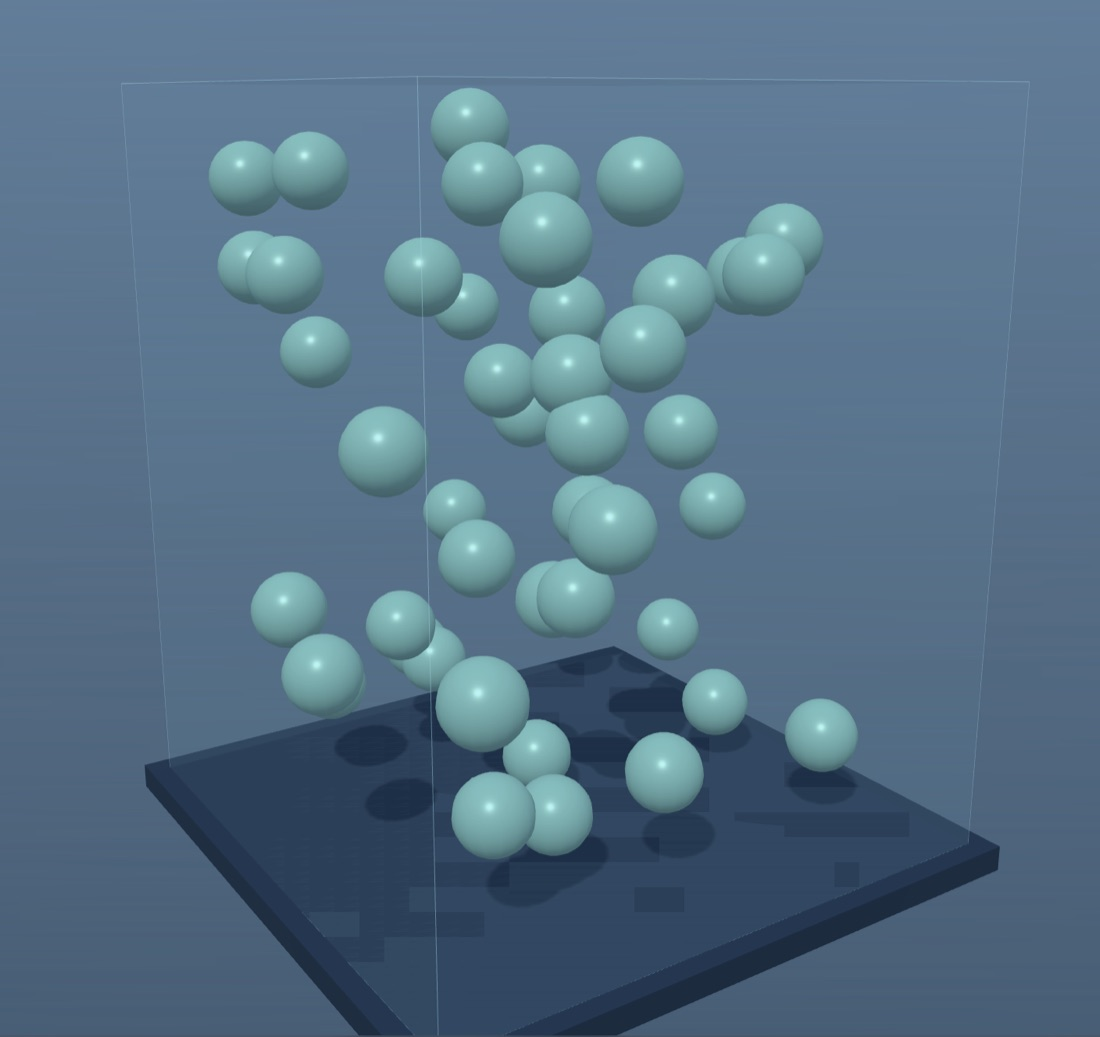
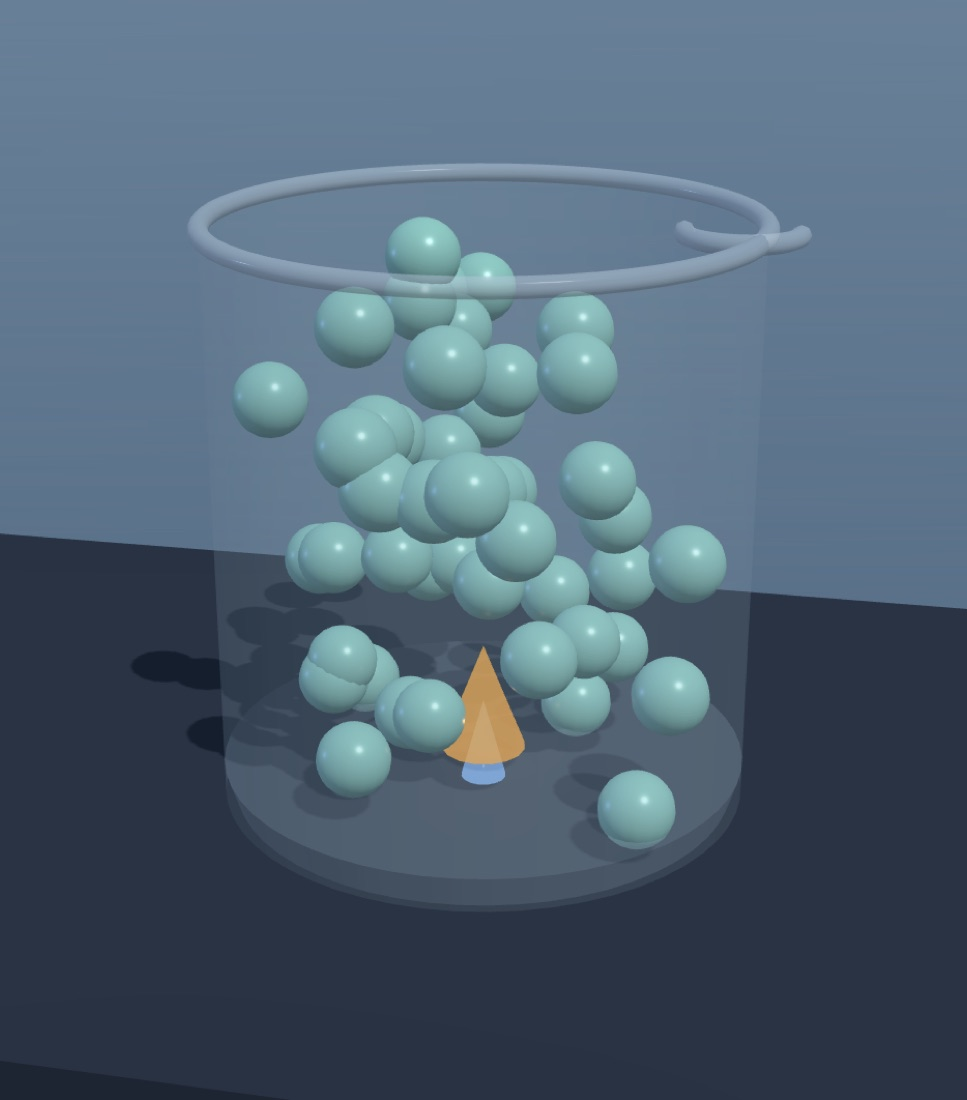
Update states + rate of reaction tile pics; tidy filter bar alignment

diff --git a/index.html b/index.html
@@ -59,13 +59,13 @@
   .sh p{font-size:clamp(15px,1.7vw,18px);color:var(--dim);margin-top:8px;font-weight:500}
   .subj{display:flex;align-items:center;gap:12px;margin:34px 0 0;font-size:13px;font-weight:700;letter-spacing:.1em;text-transform:uppercase;color:var(--dim)}
   .subj::after{content:"";flex:1;height:1px;background:rgba(0,0,0,.09)}
-  .filterbar{position:sticky;top:72px;z-index:20;display:flex;gap:10px;align-items:center;flex-wrap:wrap;justify-content:center;width:max-content;max-width:100%;margin:0 auto 6px;
-    background:rgba(248,249,252,.86);backdrop-filter:blur(14px);-webkit-backdrop-filter:blur(14px);border:1px solid rgba(0,0,0,.07);border-radius:999px;padding:7px;box-shadow:0 6px 20px rgba(30,40,80,.1)}
+  .filterbar{position:sticky;top:72px;z-index:20;display:flex;align-items:center;gap:8px;flex-wrap:wrap;justify-content:center;width:max-content;max-width:calc(100% - 8px);margin:0 auto 8px;
+    background:rgba(248,249,252,.9);backdrop-filter:blur(14px);-webkit-backdrop-filter:blur(14px);border:1px solid rgba(0,0,0,.07);border-radius:999px;padding:6px 8px;box-shadow:0 6px 20px rgba(30,40,80,.1)}
   .ftabs{display:flex;gap:3px;flex-wrap:wrap;justify-content:center}
-  .ftab{font-family:inherit;font-weight:600;font-size:13px;color:var(--dim);background:transparent;border:0;border-radius:999px;padding:8px 14px;cursor:pointer;transition:background .15s,color .15s}
+  .ftab{font-family:inherit;font-weight:600;font-size:13px;line-height:1;color:var(--dim);background:transparent;border:0;border-radius:999px;padding:9px 14px;cursor:pointer;transition:background .15s,color .15s}
   .ftab.on{background:var(--blue);color:#fff}.ftab:not(.on):hover{background:rgba(0,0,0,.05)}
-  .search{font-family:inherit;font-size:13px;border:1px solid var(--gb);border-radius:999px;padding:8px 16px;background:#fff;color:var(--ink);outline:none;width:160px}
-  @media(max-width:560px){.search{width:130px}.ftab{padding:7px 11px;font-size:12.5px}}
+  .search{font-family:inherit;font-size:13px;line-height:1;border:1px solid var(--gb);border-radius:999px;padding:9px 16px;background:#fff;color:var(--ink);outline:none;width:150px;-webkit-appearance:none;appearance:none}
+  @media(max-width:560px){.search{width:120px}.ftab{padding:8px 11px;font-size:12.5px}}
   .tiles{display:grid;grid-template-columns:repeat(3,1fr);gap:18px;margin-top:16px}
   @media(max-width:900px){.tiles{grid-template-columns:repeat(2,1fr)}}
   @media(max-width:560px){.tiles{grid-template-columns:1fr}}